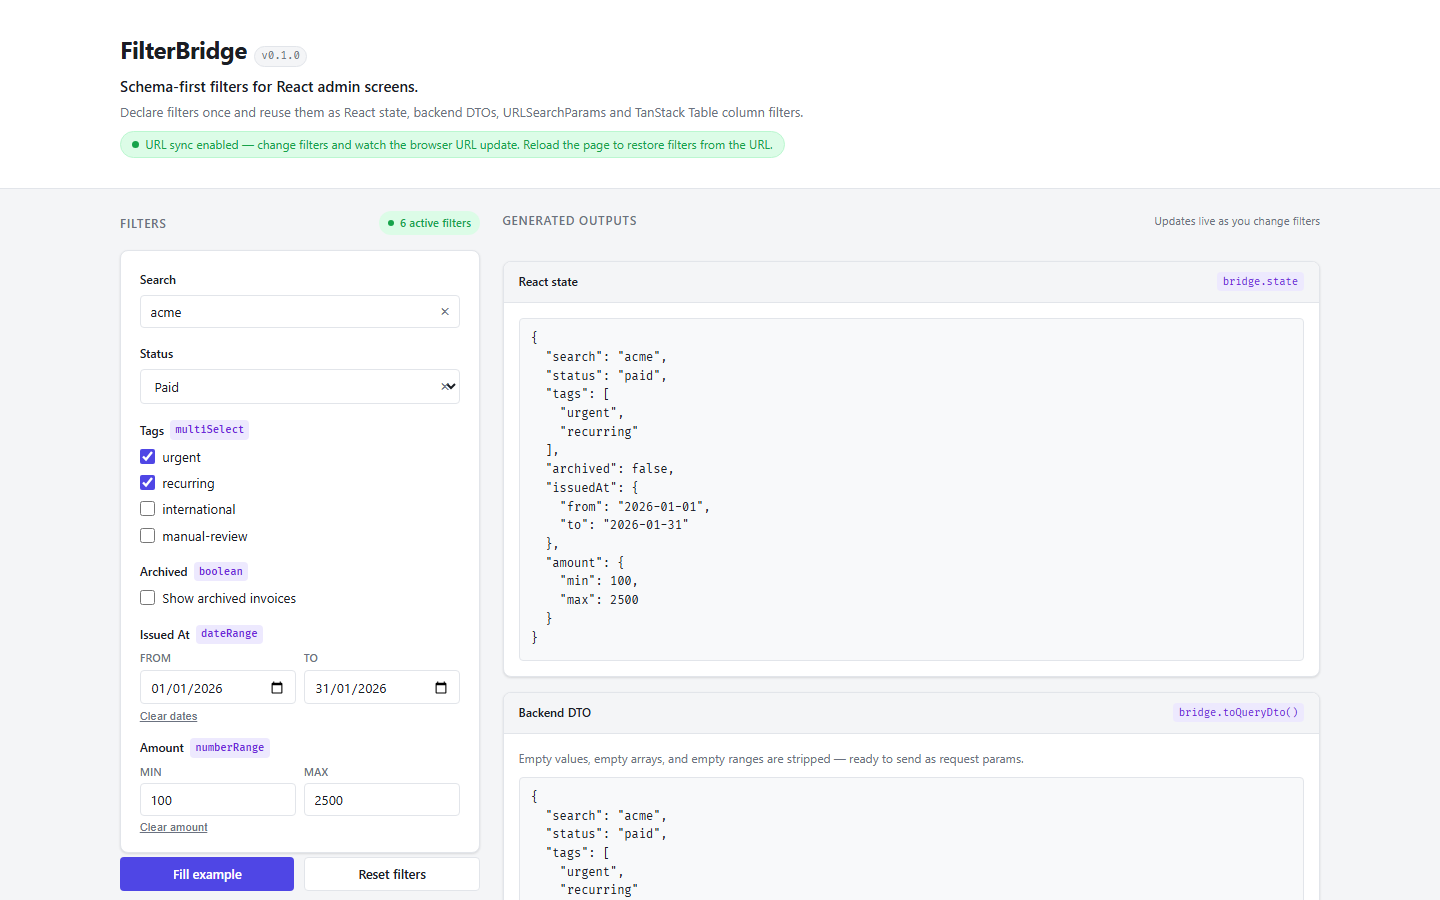
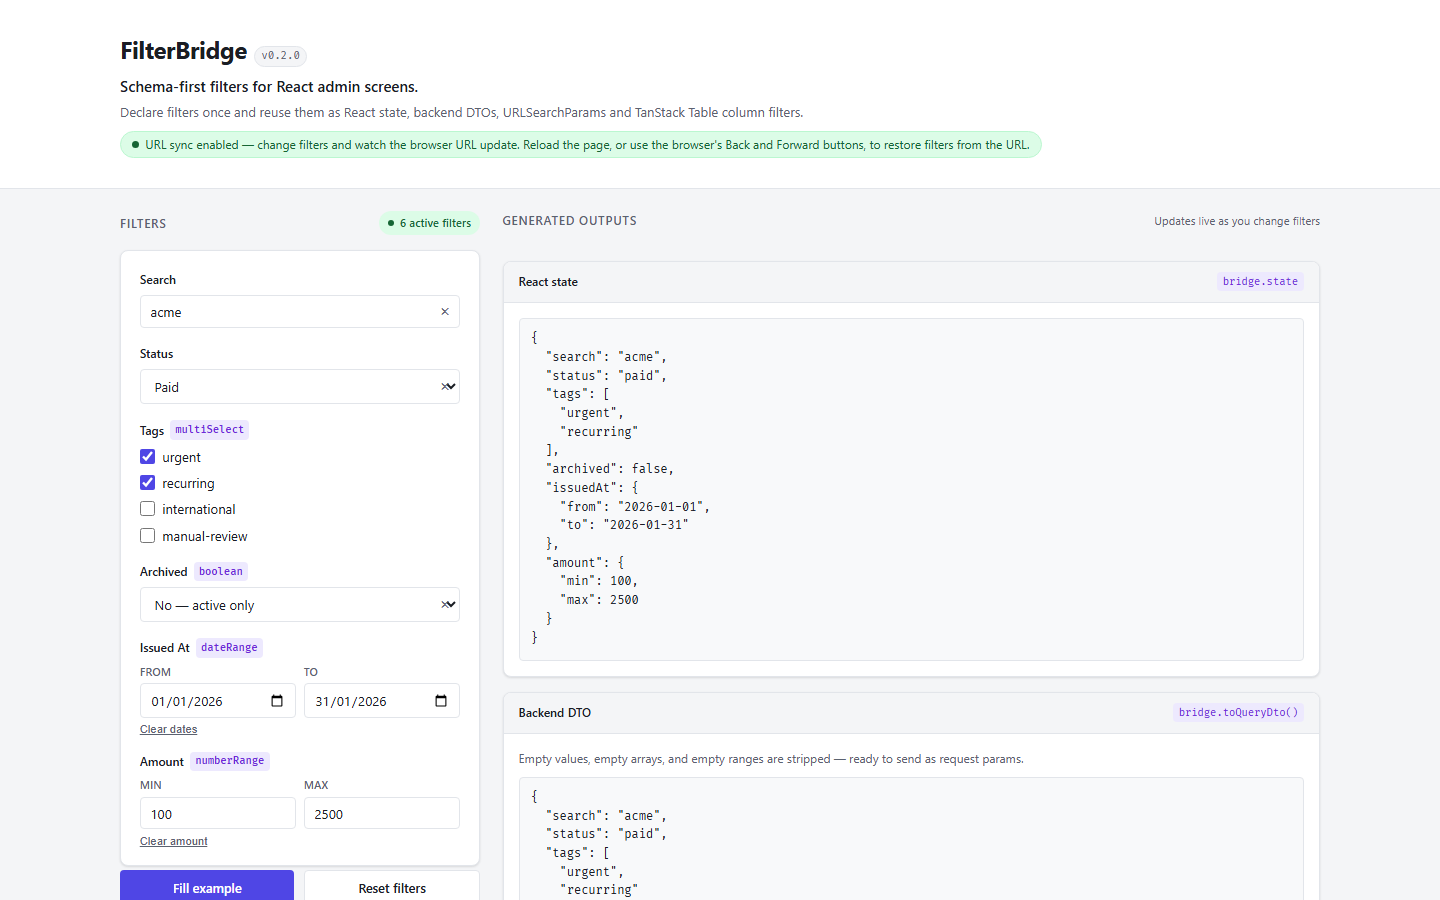
fix(demo): bring the palette up to WCAG AA
Zero color-contrast violations in real Chromium, initial render and after
"Fill example". --color-muted 4.43 → 5.62 on the page background,
--color-green 3.00 → 6.49 on its tint, and the status pills switch from
white-on-saturated-fill (2.54–3.30) to dark-text-on-tint (6.10–9.37),
following the convention --color-green / --color-green-bg already set.

Two the task file had not listed: .clear-btn:hover red was 4.41 on its
tint, and --color-green also colours .url-path, so one value was failing
on two surfaces.

Adds pnpm demo:a11y — Playwright + axe-core with color-contrast enabled,
the rule the jsdom suite structurally cannot evaluate. Verified against a
known-bad state: reverting --color-muted reproduces 15 violations, so a
clean run means the rule ran rather than was skipped. Not wired into CI;
it needs a browser download and a running dev server.

Screenshot regenerated. The jsdom suite is unchanged and still passes.

Changed region(s): [[0.0625, 0.6533, 0.3438, 1.0], [0.4062, 0.1244, 0.7188, 0.1867], [0.1875, 0.7467, 0.3125, 0.8089]]

diff --git a/apps/demo/src/styles.css b/apps/demo/src/styles.css
@@ -7,22 +7,50 @@
   padding: 0;
 }
 
+/* Every foreground/background pair below clears WCAG AA (4.5:1) for normal
+   text, measured against the surface it actually sits on. The palette used to
+   miss in five places — `--color-muted` at 4.43:1 and white-on-colour status
+   pills at 2.54–3.30:1 — which `pnpm demo:a11y` now catches. The ratios in the
+   comments are the reason each value is what it is; re-measure before changing
+   one. */
 :root {
   --color-bg: #f4f5f7;
   --color-surface: #ffffff;
   --color-border: #e2e5ea;
   --color-text: #1a1d23;
-  --color-muted: #6b7280;
+  /* 5.62:1 on --color-bg, 6.13:1 on --color-surface. Was #6b7280, which is
+     4.43:1 on --color-bg — under AA by 0.07, the margin that proves it was
+     never measured. */
+  --color-muted: #5b6270;
   --color-primary: #4f46e5;
   --color-primary-h: #4338ca;
-  --color-green: #16a34a;
+  /* Text green. 6.49:1 on --color-green-bg, 6.81:1 on --color-url-bg. Was
+     #16a34a: 3.00:1 and 3.15:1. */
+  --color-green: #166534;
   --color-green-bg: #dcfce7;
   --color-red: #dc2626;
+  --color-red-h: #b91c1c; /* 5.60:1 on the #fef2f2 hover tint; #dc2626 is 4.41 */
   --color-badge-bg: #ede9fe;
   --color-badge: #6d28d9;
   --color-code-bg: #f8f9fa;
   --color-url-bg: #f0fdf4;
   --color-url-border: #bbf7d0;
+
+  /* Status pills: dark text on a light tint, not white on a saturated fill.
+     White on these hues cannot reach 4.5:1 without going so dark the pill stops
+     reading as a status colour, so the pills follow the convention
+     --color-green / --color-green-bg already set. Ratios: 9.37, 6.37, 6.49,
+     6.80, 6.10. */
+  --status-draft: #374151;
+  --status-draft-bg: #f3f4f6;
+  --status-pending: #92400e;
+  --status-pending-bg: #fef3c7;
+  --status-paid: #166534;
+  --status-paid-bg: #dcfce7;
+  --status-failed: #991b1b;
+  --status-failed-bg: #fee2e2;
+  --status-cancelled: #4b5563;
+  --status-cancelled-bg: #e5e7eb;
   --radius: 8px;
   --radius-sm: 4px;
   --shadow-sm: 0 1px 3px rgba(0, 0, 0, 0.07), 0 1px 2px rgba(0, 0, 0, 0.05);
@@ -270,7 +298,7 @@ label.field-label {
 }
 
 .clear-btn:hover {
-  color: var(--color-red);
+  color: var(--color-red-h);
   background: #fef2f2;
 }
 
@@ -606,6 +634,40 @@ label.field-label {
 
 .invoice-table tbody tr:hover td {
   background: var(--color-bg);
+}
+
+/* ── Status pills ─────────────────────────────────────────── */
+.status-pill {
+  display: inline-block;
+  padding: 0.1rem 0.5rem;
+  border-radius: 999px;
+  font-size: 0.75rem;
+  font-weight: 600;
+}
+
+.status-pill-draft {
+  color: var(--status-draft);
+  background: var(--status-draft-bg);
+}
+
+.status-pill-pending {
+  color: var(--status-pending);
+  background: var(--status-pending-bg);
+}
+
+.status-pill-paid {
+  color: var(--status-paid);
+  background: var(--status-paid-bg);
+}
+
+.status-pill-failed {
+  color: var(--status-failed);
+  background: var(--status-failed-bg);
+}
+
+.status-pill-cancelled {
+  color: var(--status-cancelled);
+  background: var(--status-cancelled-bg);
 }
 
 .invoice-table-empty {

diff --git a/apps/demo/src/components/InvoiceTable.tsx b/apps/demo/src/components/InvoiceTable.tsx
@@ -47,30 +47,14 @@ const columns = [
 
 type StatusBadgeProps = { status: Invoice['status'] }
 
-const STATUS_COLORS: Record<Invoice['status'], string> = {
-  draft: '#6b7280',
-  pending: '#d97706',
-  paid: '#16a34a',
-  failed: '#dc2626',
-  cancelled: '#9ca3af',
-}
-
+/**
+ * Dark text on a light tint, defined in styles.css rather than inline. White on
+ * the saturated fills these used before was 2.54–3.30:1, and no hue at this
+ * lightness reaches AA against white without going dark enough to stop reading
+ * as a status colour.
+ */
 function StatusBadge({ status }: StatusBadgeProps) {
-  return (
-    <span
-      style={{
-        display: 'inline-block',
-        padding: '0.1rem 0.5rem',
-        borderRadius: '999px',
-        fontSize: '0.75rem',
-        fontWeight: 600,
-        color: '#fff',
-        background: STATUS_COLORS[status],
-      }}
-    >
-      {status}
-    </span>
-  )
+  return <span className={`status-pill status-pill-${status}`}>{status}</span>
 }
 
 type InvoiceTableProps = {

diff --git a/docs/sprints/sprint-1/03-demo-contrast.md b/docs/sprints/sprint-1/03-demo-contrast.md
@@ -2,7 +2,43 @@
 
 **Priority:** P2 — the demo is the first thing anyone sees
 **Area:** `apps/demo`
-**Status:** open
+**Status:** done
+
+---
+
+## Outcome
+
+Zero `color-contrast` violations in real Chromium, on the initial render and after "Fill example".
+
+Decisions taken as recommended: option A (minimum viable darkening), dark-text-on-tint for the
+pills, a `pnpm demo:a11y` script run by hand and left out of CI, and no change to the jsdom suite.
+
+| Value            | Was                | Now                    | Ratio                             |
+| ---------------- | ------------------ | ---------------------- | --------------------------------- |
+| `--color-muted`  | `#6b7280`          | `#5b6270`              | 4.43 → 5.62 on `--color-bg`       |
+| `--color-green`  | `#16a34a`          | `#166534`              | 3.00 → 6.49 on `--color-green-bg` |
+| `paid` pill      | white on `#16a34a` | `#166534` on `#dcfce7` | 3.30 → 6.49                       |
+| `pending` pill   | white on `#d97706` | `#92400e` on `#fef3c7` | 3.19 → 6.37                       |
+| `cancelled` pill | white on `#9ca3af` | `#4b5563` on `#e5e7eb` | 2.54 → 6.10                       |
+| `draft` pill     | white on `#6b7280` | `#374151` on `#f3f4f6` | 4.83 → 9.37                       |
+| `failed` pill    | white on `#dc2626` | `#991b1b` on `#fee2e2` | 4.83 → 6.80                       |
+
+Two things the task did not list turned up while measuring and were fixed in the same pass: the
+`.clear-btn:hover` red on its `#fef2f2` tint was **4.41:1** (now `--color-red-h` `#b91c1c`, 5.60:1),
+and `--color-green` is used for `.url-path` on `--color-url-bg` as well as for the badge — one value,
+two failing surfaces, both closed by the same change.
+
+The pills moved from inline styles in `InvoiceTable.tsx` into `styles.css` classes, so the whole
+palette is in one file with its measured ratio in a comment beside each value.
+
+**The script was verified against a known-bad state, not only a good one.** Reverting
+`--color-muted` to `#6b7280` and re-running reproduced 15 violations with the exact 4.43:1 figure —
+so a clean run means the rule ran, not that it was skipped. That check is worth repeating whenever
+an audit reports zero.
+
+The verification method is written down in
+[`apps/demo/README.md`](../../../apps/demo/README.md#accessibility) and in the "Writing tests"
+section of [`CONTRIBUTING.md`](../../../CONTRIBUTING.md), not only here.
 
 ---
 
@@ -79,12 +115,12 @@ produce a silent pass, which is worse than an acknowledged gap.
 
 ## Acceptance criteria
 
-- [ ] Zero `color-contrast` violations in a real-Chromium axe run against the demo
-- [ ] The screenshot in [`docs/assets/`](../../assets/) is regenerated if the palette shifted
+- [x] Zero `color-contrast` violations in a real-Chromium axe run against the demo
+- [x] The screenshot in [`docs/assets/`](../../assets/) is regenerated if the palette shifted
       visibly — a README screenshot that no longer matches the deployed demo is its own defect
-- [ ] The existing jsdom a11y suite still passes, unmodified
-- [ ] The roadmap's housekeeping entry is removed
-- [ ] Whatever verification method is chosen is written down where the next person will find it, not
+- [x] The existing jsdom a11y suite still passes, unmodified
+- [x] The roadmap's housekeeping entry is removed
+- [x] Whatever verification method is chosen is written down where the next person will find it, not
       only in this file
 
 ## Risk

diff --git a/apps/demo/README.md b/apps/demo/README.md
@@ -111,3 +111,31 @@ The demo uses `@filterbridge/browser` to keep the browser URL in sync with filte
 The demo is a consumer of `@filterbridge/core`, `@filterbridge/react`, `@filterbridge/browser` (both entry points) and `@filterbridge/tanstack`. It does not export anything and is not published.
 
 It is also the only place the packages are exercised together, so `pnpm demo:build` runs in CI as its own job, and an axe-core accessibility suite over the rendered app runs as part of `pnpm test`.
+
+---
+
+## Accessibility
+
+The demo is audited twice, by two tools with different capabilities. This is deliberate, not redundant.
+
+| Audit                                                        | Runs               | Covers                                     |
+| ------------------------------------------------------------ | ------------------ | ------------------------------------------ |
+| [`src/__tests__/a11y.test.tsx`](src/__tests__/a11y.test.tsx) | `pnpm test`, in CI | Structure, labels, roles, names            |
+| [`pnpm demo:a11y`](../../scripts/audit-demo-a11y.mjs)        | By hand            | Everything above **plus** `color-contrast` |
+
+The jsdom suite disables the `color-contrast` rule, and has to: jsdom has no layout engine and no computed colours, so axe cannot measure a ratio there. Enabling the rule anyway would produce a silent pass, which is worse than an acknowledged gap.
+
+`pnpm demo:a11y` is the audit that can measure it. It drives real Chromium through Playwright, injects axe-core with `color-contrast` enabled, and checks both the initial render and the "Fill example" state:
+
+```bash
+pnpm demo        # terminal 1
+pnpm demo:a11y   # terminal 2
+```
+
+It exits non-zero on any violation. It is **not** in CI — it needs a Chromium download and a running dev server, which is a heavier job than anything the workflow does today. Run it after touching `styles.css` or any colour.
+
+### Palette
+
+Every foreground/background pair in [`src/styles.css`](src/styles.css) clears WCAG AA (4.5:1) for normal text, and the measured ratio is in a comment next to each value. Re-measure before changing one — the palette shipped for two releases with `--color-muted` at 4.43:1, missing the threshold by 0.07, which is the margin that proves nobody had measured it.
+
+Status pills use dark text on a light tint rather than white on a saturated fill. White on those hues cannot reach 4.5:1 without going dark enough that the pill stops reading as a status colour.

diff --git a/docs/roadmap.md b/docs/roadmap.md
@@ -34,6 +34,9 @@ Delivered by [Sprint 1](./sprints/sprint-1/README.md).
 - [x] Optional custom URL keys for `dateRange` and `numberRange` — `keys: { from, to }` /
       `keys: { min, max }`, with key derivation collapsed from four copies into one in
       `@filterbridge/core`. `defineFilters` now throws on a duplicate param key
+- [x] The demo's colour-contrast violations — palette re-measured against WCAG AA, plus
+      `pnpm demo:a11y`, a real-Chromium axe run that can check contrast where the jsdom suite
+      structurally cannot
 
 ---
 
@@ -85,21 +88,8 @@ Prerequisites before marking the API stable:
 
 Known, deliberately deferred, and easy to lose track of once a sprint closes.
 
-### The demo has 25 colour-contrast violations
-
-Found by an axe-core audit in real Chromium during Sprint 0. All pre-existing, none related to the
-label fixes that sprint made:
-
-- `--color-muted` (`#6b7280`) on `--color-bg` (`#f4f5f7`) is **4.43:1**, just under the 4.5:1 AA
-  threshold. This accounts for most of them: column titles, hints, table headers, the active filter
-  count.
-- Status pills use white text on `#16a34a` / `#d97706` / `#9ca3af` — **3.29:1**, **3.18:1**,
-  **2.53:1**.
-- The green URL-sync badge and `.url-path` are around **3:1**.
-
-Fixing them means changing the palette, which is a visual decision rather than a correctness one.
-The committed jsdom suite disables the `color-contrast` rule because jsdom has no layout engine and
-cannot measure it, so re-running the audit in a real browser is the only way to verify a fix.
+_Nothing is outstanding._ Sprint 1 closed both entries that lived here — `pnpm format:check` is a CI
+job, and the demo's palette clears WCAG AA with `pnpm demo:a11y` to keep it that way.
 
 ---
 

diff --git a/CONTRIBUTING.md b/CONTRIBUTING.md
@@ -71,6 +71,9 @@ pnpm demo
 # Build the demo for static hosting
 pnpm demo:build
 
+# Audit the running demo in real Chromium, including colour contrast
+pnpm demo:a11y
+
 # Pack all packages to .packs/ (for local inspection)
 pnpm pack:all
 ```
@@ -137,6 +140,10 @@ Guidelines:
 - Test edge cases: empty input, invalid values, partial range objects.
 - For React hook tests, use `@testing-library/react`.
 - Avoid testing internal implementation details — test observable behavior.
+- **If you change a colour in `apps/demo`, run `pnpm demo:a11y`.** The axe suite that runs under
+  `pnpm test` cannot check contrast — jsdom has no layout engine — so `pnpm demo:a11y` drives real
+  Chromium against the running demo and is the only thing that will catch it. See
+  [`apps/demo/README.md`](apps/demo/README.md#accessibility).
 
 ---
 

diff --git a/.changeset/quiet-pandas-repeat.md b/.changeset/quiet-pandas-repeat.md
@@ -1,0 +1,15 @@
+---
+---
+
+Sprint 1's non-package work — nothing to release.
+
+Empty on purpose, and one file rather than three, because `changeset status` fires on any workspace
+package edit and all three of these touch one:
+
+- **Formatting.** `pnpm format` across the repository, `.gitattributes` pinning text files to LF,
+  and a `format` job in CI. Whitespace only.
+- **Demo contrast.** `apps/demo`'s palette re-measured against WCAG AA, plus `pnpm demo:a11y`.
+  `@filterbridge/demo` is private and never published.
+- **Next.js example.** `examples/next-app-router/`, which sits outside the pnpm workspace.
+
+The custom range keys in the same release are a separate, non-empty changeset.
